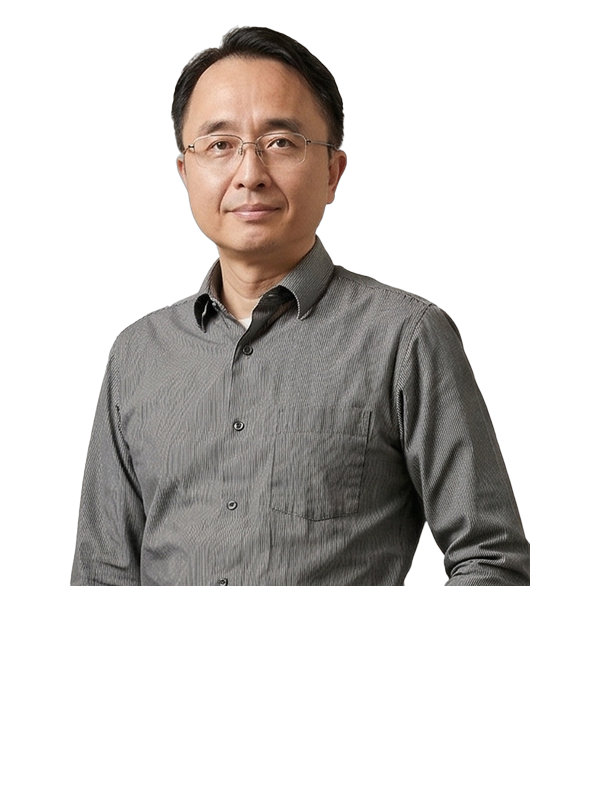
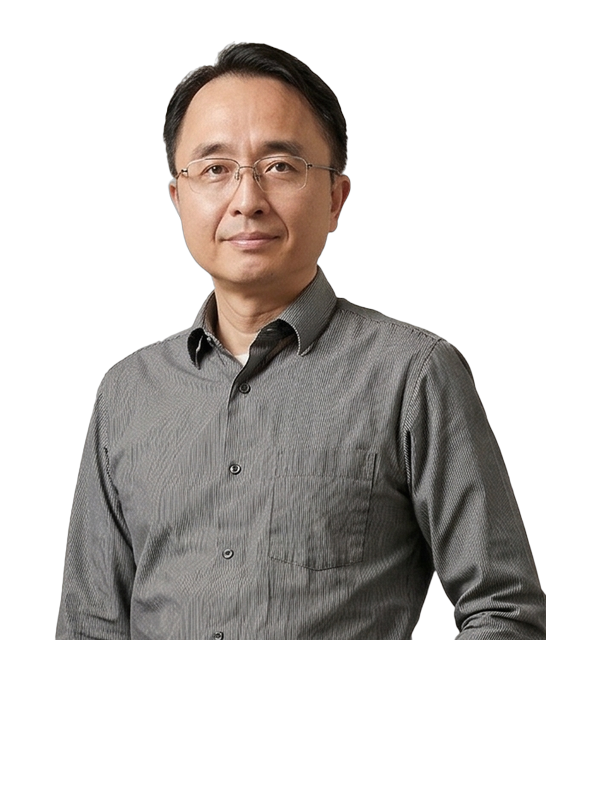
講師照片改純去背 · 無藍卡框 · 等比大小 · 靜態左上右下
- rembg 重新去背兩張,head_ratio 統一 0.32 → 兩人頭部尺寸完全相等
- 拿掉 .instructor-card 藍漸層卡片 + 斜切裝飾 + 底部藍色 label 標籤
  改成 .instructor-wrap:純去背照直接放深底,只保留藍色 drop-shadow 光暈
- 姓名/單元/tag 移到照片下方(text-center)
- 拿掉 hero-float-a/-b 蹺蹺板動畫
  改成 .hero-offset-up (translateY -30px) / .hero-offset-down (+30px)
  → 左上右下固定,不再上下浮動
- 影響:Hero 兩位講師 + 04 講師區塊都同步改

Changed region(s): [[0.09, 0.0312, 0.93, 0.8125], [0.24, 0.4688, 0.27, 0.5]]

diff --git a/course-tour/index.html b/course-tour/index.html
@@ -126,32 +126,15 @@
     background: linear-gradient(135deg, rgba(0, 102, 255, 0.18) 0%, rgba(0, 61, 153, 0.10) 100%);
   }
 
-  /* ─────── 講師 blue gradient 卡片(仿飛書海報) ─────── */
-  .instructor-card {
+  /* ─────── 講師照片:純去背 · 無卡片框 · 直接放深底上 ─────── */
+  .instructor-wrap {
     position: relative;
     width: 100%; aspect-ratio: 3/4;
-    border-radius: 14px;
-    overflow: hidden;
-    background: linear-gradient(135deg, #0066FF 0%, #003D99 100%);
-    box-shadow: 0 20px 44px -12px rgba(0, 102, 255, 0.5), 0 2px 6px rgba(0, 0, 0, 0.3);
-  }
-  .instructor-card::before {
-    /* 斜切裝飾 */
-    content: ''; position: absolute; inset: 0;
-    background: linear-gradient(135deg, transparent 60%, rgba(0, 229, 255, 0.25) 60%, rgba(0, 229, 255, 0.25) 65%, transparent 65%);
-    z-index: 1;
+    filter: drop-shadow(0 20px 30px rgba(0, 102, 255, 0.35));
   }
   .instructor-img {
-    position: relative; z-index: 2;
-    display: block; width: 100%; height: 100%; object-fit: contain; object-position: center bottom;
-  }
-  .instructor-label {
-    position: absolute; bottom: 12px; left: 12px; right: 12px;
-    background: rgba(0, 41, 102, 0.85);
-    backdrop-filter: blur(8px);
-    border-radius: 8px; padding: 8px 12px;
-    z-index: 3;
-    border: 1px solid rgba(77, 159, 255, 0.35);
+    display: block; width: 100%; height: 100%;
+    object-fit: contain; object-position: center bottom;
   }
 
   /* ─────── 按鈕 ─────── */
@@ -272,21 +255,10 @@
     .card { padding: 1.25rem; }
   }
 
-  /* ─────── 講師浮動蹺蹺板動畫(跟 3 一樣) ─────── */
+  /* ─────── 講師固定視差:左上右下(無動畫) ─────── */
   @media (min-width: 640px) {
-    .hero-float-a { animation: float-a 5.5s ease-in-out infinite; }
-    .hero-float-b { animation: float-b 5.5s ease-in-out infinite; }
-  }
-  @keyframes float-a {
-    0%, 100% { transform: translateY(-24px); }
-    50%      { transform: translateY(24px); }
-  }
-  @keyframes float-b {
-    0%, 100% { transform: translateY(24px); }
-    50%      { transform: translateY(-24px); }
-  }
-  @media (prefers-reduced-motion: reduce) {
-    .hero-float-a, .hero-float-b { animation: none; }
+    .hero-offset-up   { transform: translateY(-30px); }
+    .hero-offset-down { transform: translateY(30px); }
   }
 </style>
 </head>
@@ -353,25 +325,27 @@
       </div>
 
       <!-- 右:2 位講師卡片(藍漸層 · 蹺蹺板) -->
-      <div class="lg:col-span-5 grid grid-cols-2 gap-4 reveal from-right">
-        <div class="hero-float-a">
-          <div class="instructor-card">
+      <div class="lg:col-span-5 grid grid-cols-2 gap-4 items-end reveal from-right">
+        <!-- Morris(左上) -->
+        <div class="hero-offset-up">
+          <div class="instructor-wrap">
             <img src="assets/instructor-morris.png" alt="Morris 講師" class="instructor-img">
-            <div class="instructor-label">
-              <div class="text-cyan-400 text-[10px] tracking-widest font-bold mb-0.5">上半場 · MORRIS</div>
-              <div class="text-white font-black text-sm">Morris</div>
-              <div class="text-ink-300 text-[11px]">AI 落地 · n8n</div>
-            </div>
+          </div>
+          <div class="text-center mt-3">
+            <div class="text-cyan-400 text-[11px] tracking-widest font-bold mb-1">上半場 · MORRIS</div>
+            <div class="text-white font-black text-base">Morris</div>
+            <div class="text-ink-300 text-xs mt-0.5">AI 落地 · n8n</div>
           </div>
         </div>
-        <div class="hero-float-b">
-          <div class="instructor-card">
+        <!-- Victor(右下) -->
+        <div class="hero-offset-down">
+          <div class="instructor-wrap">
             <img src="assets/instructor-victor.png" alt="Victor 講師" class="instructor-img">
-            <div class="instructor-label">
-              <div class="text-cyan-400 text-[10px] tracking-widest font-bold mb-0.5">下半場 · VICTOR</div>
-              <div class="text-white font-black text-sm">Victor 游文賢</div>
-              <div class="text-ink-300 text-[11px]">AI Agent 資安</div>
-            </div>
+          </div>
+          <div class="text-center mt-3">
+            <div class="text-cyan-400 text-[11px] tracking-widest font-bold mb-1">下半場 · VICTOR</div>
+            <div class="text-white font-black text-base">Victor 游文賢</div>
+            <div class="text-ink-300 text-xs mt-0.5">AI Agent 資安</div>
           </div>
         </div>
       </div>
@@ -613,7 +587,7 @@
       <!-- Morris -->
       <div class="reveal">
         <div class="mx-auto mb-6" style="width: 100%; max-width: 320px;">
-          <div class="instructor-card">
+          <div class="instructor-wrap">
             <img src="assets/instructor-morris.png" alt="Morris 講師" class="instructor-img">
           </div>
         </div>
@@ -630,7 +604,7 @@
       <!-- Victor -->
       <div class="reveal" style="transition-delay:0.1s;">
         <div class="mx-auto mb-6" style="width: 100%; max-width: 320px;">
-          <div class="instructor-card">
+          <div class="instructor-wrap">
             <img src="assets/instructor-victor.png" alt="Victor 講師" class="instructor-img">
           </div>
         </div>

diff --git a/專案/4_製造業列車/2. 產出/index.html b/專案/4_製造業列車/2. 產出/index.html
@@ -126,32 +126,15 @@
     background: linear-gradient(135deg, rgba(0, 102, 255, 0.18) 0%, rgba(0, 61, 153, 0.10) 100%);
   }
 
-  /* ─────── 講師 blue gradient 卡片(仿飛書海報) ─────── */
-  .instructor-card {
+  /* ─────── 講師照片:純去背 · 無卡片框 · 直接放深底上 ─────── */
+  .instructor-wrap {
     position: relative;
     width: 100%; aspect-ratio: 3/4;
-    border-radius: 14px;
-    overflow: hidden;
-    background: linear-gradient(135deg, #0066FF 0%, #003D99 100%);
-    box-shadow: 0 20px 44px -12px rgba(0, 102, 255, 0.5), 0 2px 6px rgba(0, 0, 0, 0.3);
-  }
-  .instructor-card::before {
-    /* 斜切裝飾 */
-    content: ''; position: absolute; inset: 0;
-    background: linear-gradient(135deg, transparent 60%, rgba(0, 229, 255, 0.25) 60%, rgba(0, 229, 255, 0.25) 65%, transparent 65%);
-    z-index: 1;
+    filter: drop-shadow(0 20px 30px rgba(0, 102, 255, 0.35));
   }
   .instructor-img {
-    position: relative; z-index: 2;
-    display: block; width: 100%; height: 100%; object-fit: contain; object-position: center bottom;
-  }
-  .instructor-label {
-    position: absolute; bottom: 12px; left: 12px; right: 12px;
-    background: rgba(0, 41, 102, 0.85);
-    backdrop-filter: blur(8px);
-    border-radius: 8px; padding: 8px 12px;
-    z-index: 3;
-    border: 1px solid rgba(77, 159, 255, 0.35);
+    display: block; width: 100%; height: 100%;
+    object-fit: contain; object-position: center bottom;
   }
 
   /* ─────── 按鈕 ─────── */
@@ -272,21 +255,10 @@
     .card { padding: 1.25rem; }
   }
 
-  /* ─────── 講師浮動蹺蹺板動畫(跟 3 一樣) ─────── */
+  /* ─────── 講師固定視差:左上右下(無動畫) ─────── */
   @media (min-width: 640px) {
-    .hero-float-a { animation: float-a 5.5s ease-in-out infinite; }
-    .hero-float-b { animation: float-b 5.5s ease-in-out infinite; }
-  }
-  @keyframes float-a {
-    0%, 100% { transform: translateY(-24px); }
-    50%      { transform: translateY(24px); }
-  }
-  @keyframes float-b {
-    0%, 100% { transform: translateY(24px); }
-    50%      { transform: translateY(-24px); }
-  }
-  @media (prefers-reduced-motion: reduce) {
-    .hero-float-a, .hero-float-b { animation: none; }
+    .hero-offset-up   { transform: translateY(-30px); }
+    .hero-offset-down { transform: translateY(30px); }
   }
 </style>
 </head>
@@ -353,25 +325,27 @@
       </div>
 
       <!-- 右:2 位講師卡片(藍漸層 · 蹺蹺板) -->
-      <div class="lg:col-span-5 grid grid-cols-2 gap-4 reveal from-right">
-        <div class="hero-float-a">
-          <div class="instructor-card">
+      <div class="lg:col-span-5 grid grid-cols-2 gap-4 items-end reveal from-right">
+        <!-- Morris(左上) -->
+        <div class="hero-offset-up">
+          <div class="instructor-wrap">
             <img src="assets/instructor-morris.png" alt="Morris 講師" class="instructor-img">
-            <div class="instructor-label">
-              <div class="text-cyan-400 text-[10px] tracking-widest font-bold mb-0.5">上半場 · MORRIS</div>
-              <div class="text-white font-black text-sm">Morris</div>
-              <div class="text-ink-300 text-[11px]">AI 落地 · n8n</div>
-            </div>
+          </div>
+          <div class="text-center mt-3">
+            <div class="text-cyan-400 text-[11px] tracking-widest font-bold mb-1">上半場 · MORRIS</div>
+            <div class="text-white font-black text-base">Morris</div>
+            <div class="text-ink-300 text-xs mt-0.5">AI 落地 · n8n</div>
           </div>
         </div>
-        <div class="hero-float-b">
-          <div class="instructor-card">
+        <!-- Victor(右下) -->
+        <div class="hero-offset-down">
+          <div class="instructor-wrap">
             <img src="assets/instructor-victor.png" alt="Victor 講師" class="instructor-img">
-            <div class="instructor-label">
-              <div class="text-cyan-400 text-[10px] tracking-widest font-bold mb-0.5">下半場 · VICTOR</div>
-              <div class="text-white font-black text-sm">Victor 游文賢</div>
-              <div class="text-ink-300 text-[11px]">AI Agent 資安</div>
-            </div>
+          </div>
+          <div class="text-center mt-3">
+            <div class="text-cyan-400 text-[11px] tracking-widest font-bold mb-1">下半場 · VICTOR</div>
+            <div class="text-white font-black text-base">Victor 游文賢</div>
+            <div class="text-ink-300 text-xs mt-0.5">AI Agent 資安</div>
           </div>
         </div>
       </div>
@@ -613,7 +587,7 @@
       <!-- Morris -->
       <div class="reveal">
         <div class="mx-auto mb-6" style="width: 100%; max-width: 320px;">
-          <div class="instructor-card">
+          <div class="instructor-wrap">
             <img src="assets/instructor-morris.png" alt="Morris 講師" class="instructor-img">
           </div>
         </div>
@@ -630,7 +604,7 @@
       <!-- Victor -->
       <div class="reveal" style="transition-delay:0.1s;">
         <div class="mx-auto mb-6" style="width: 100%; max-width: 320px;">
-          <div class="instructor-card">
+          <div class="instructor-wrap">
             <img src="assets/instructor-victor.png" alt="Victor 講師" class="instructor-img">
           </div>
         </div>
